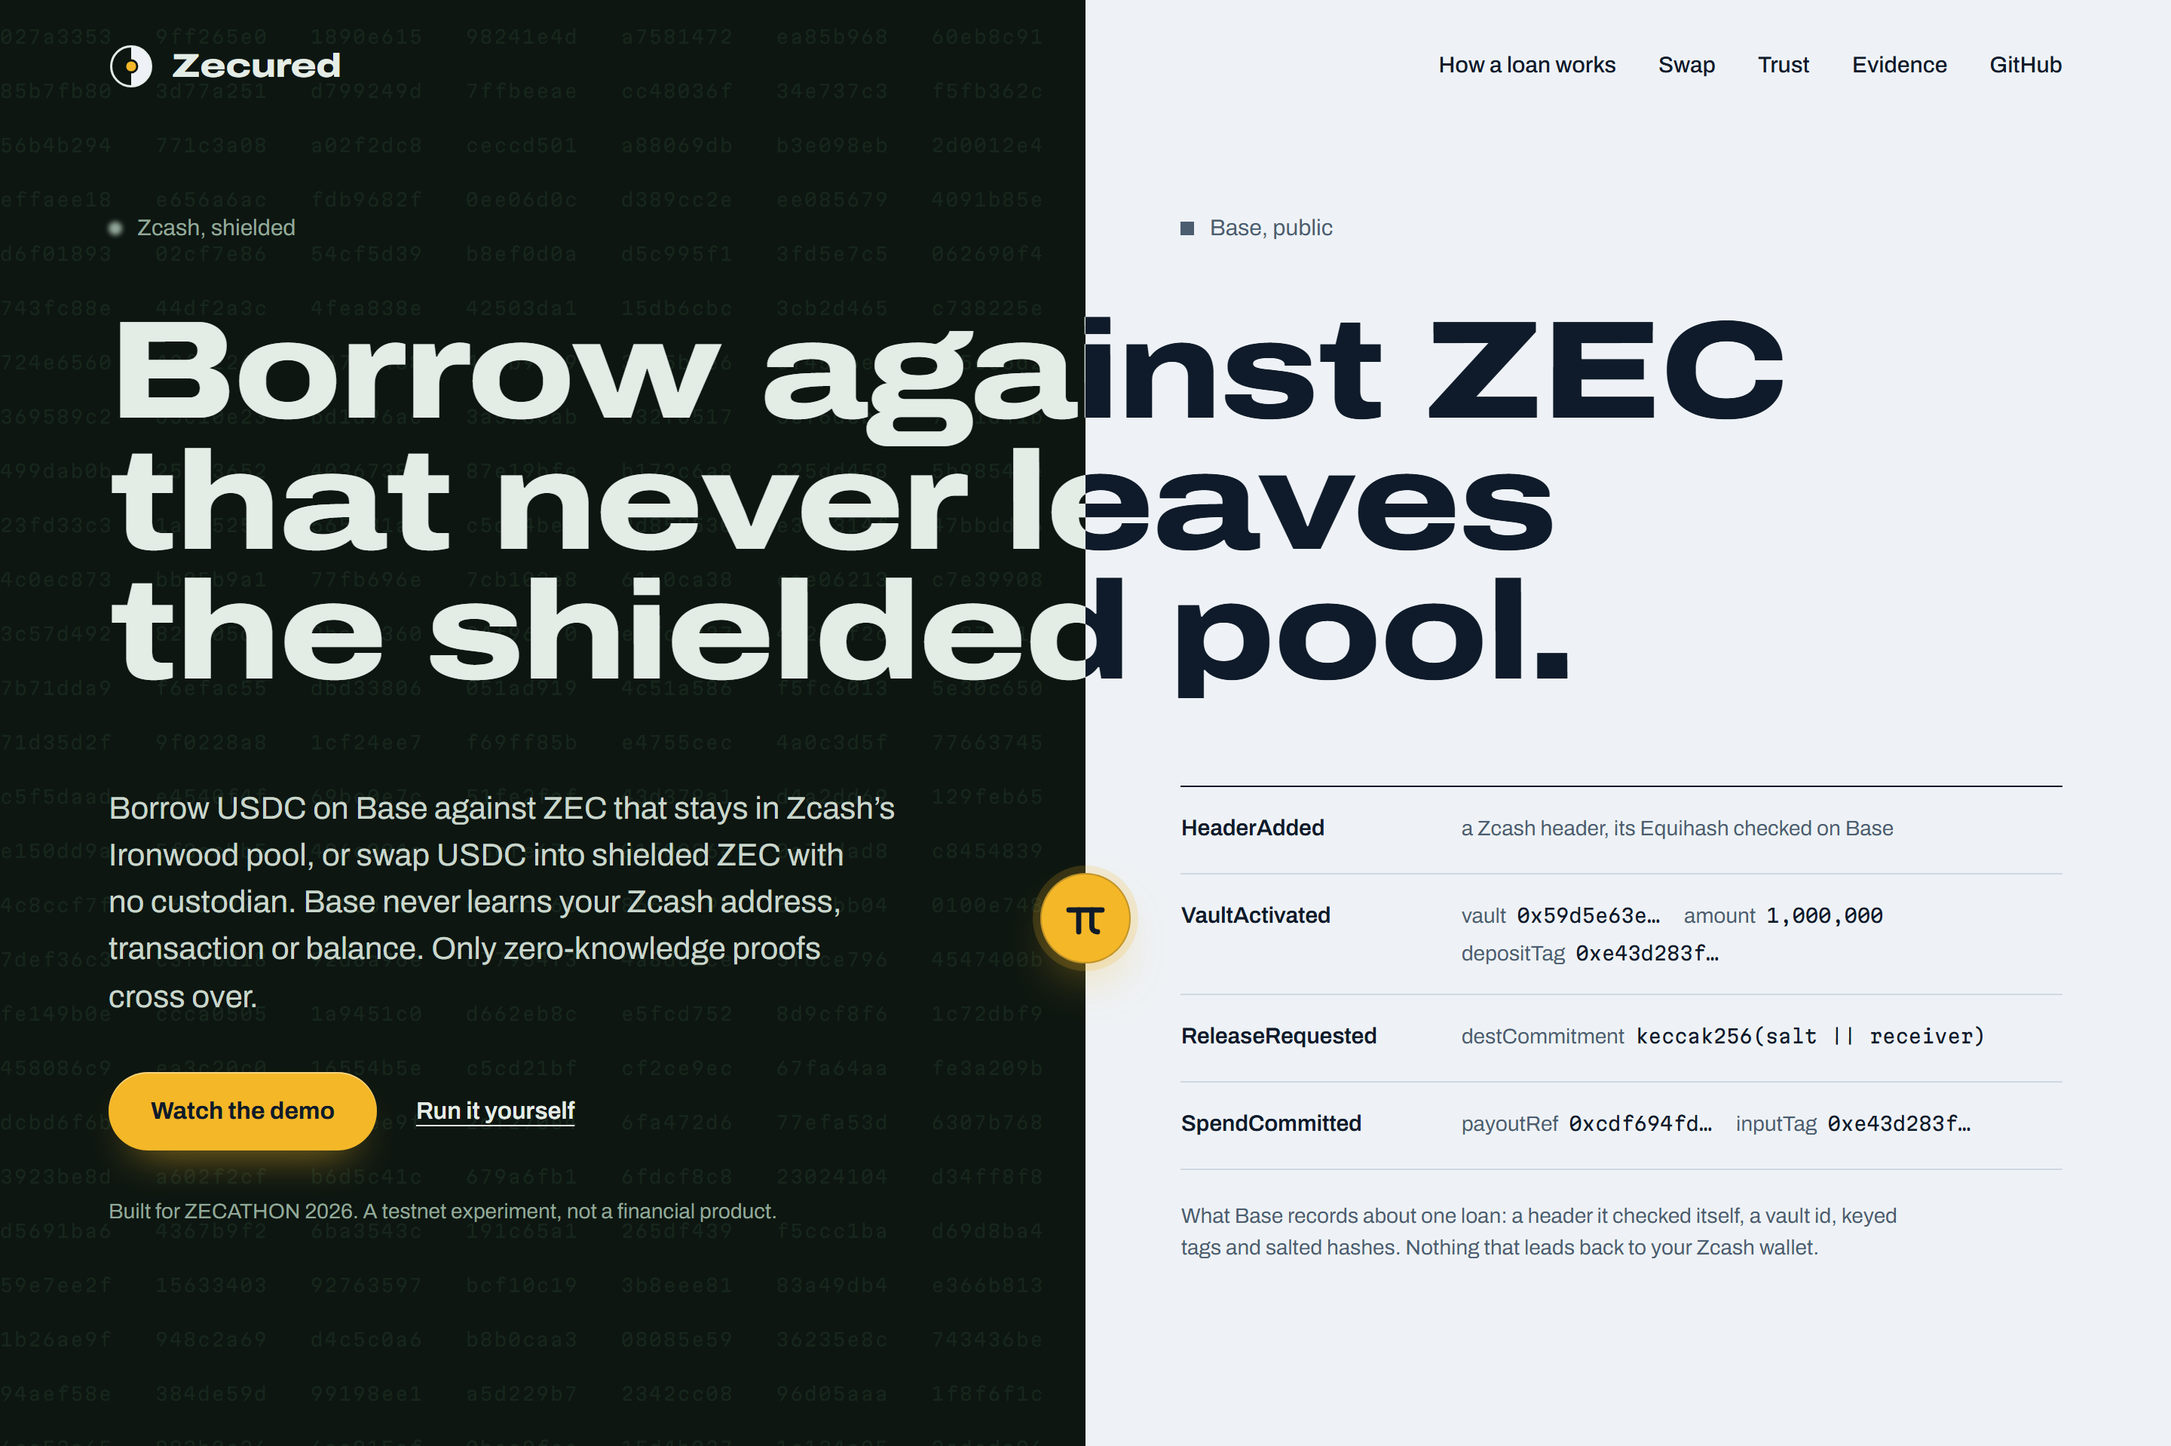
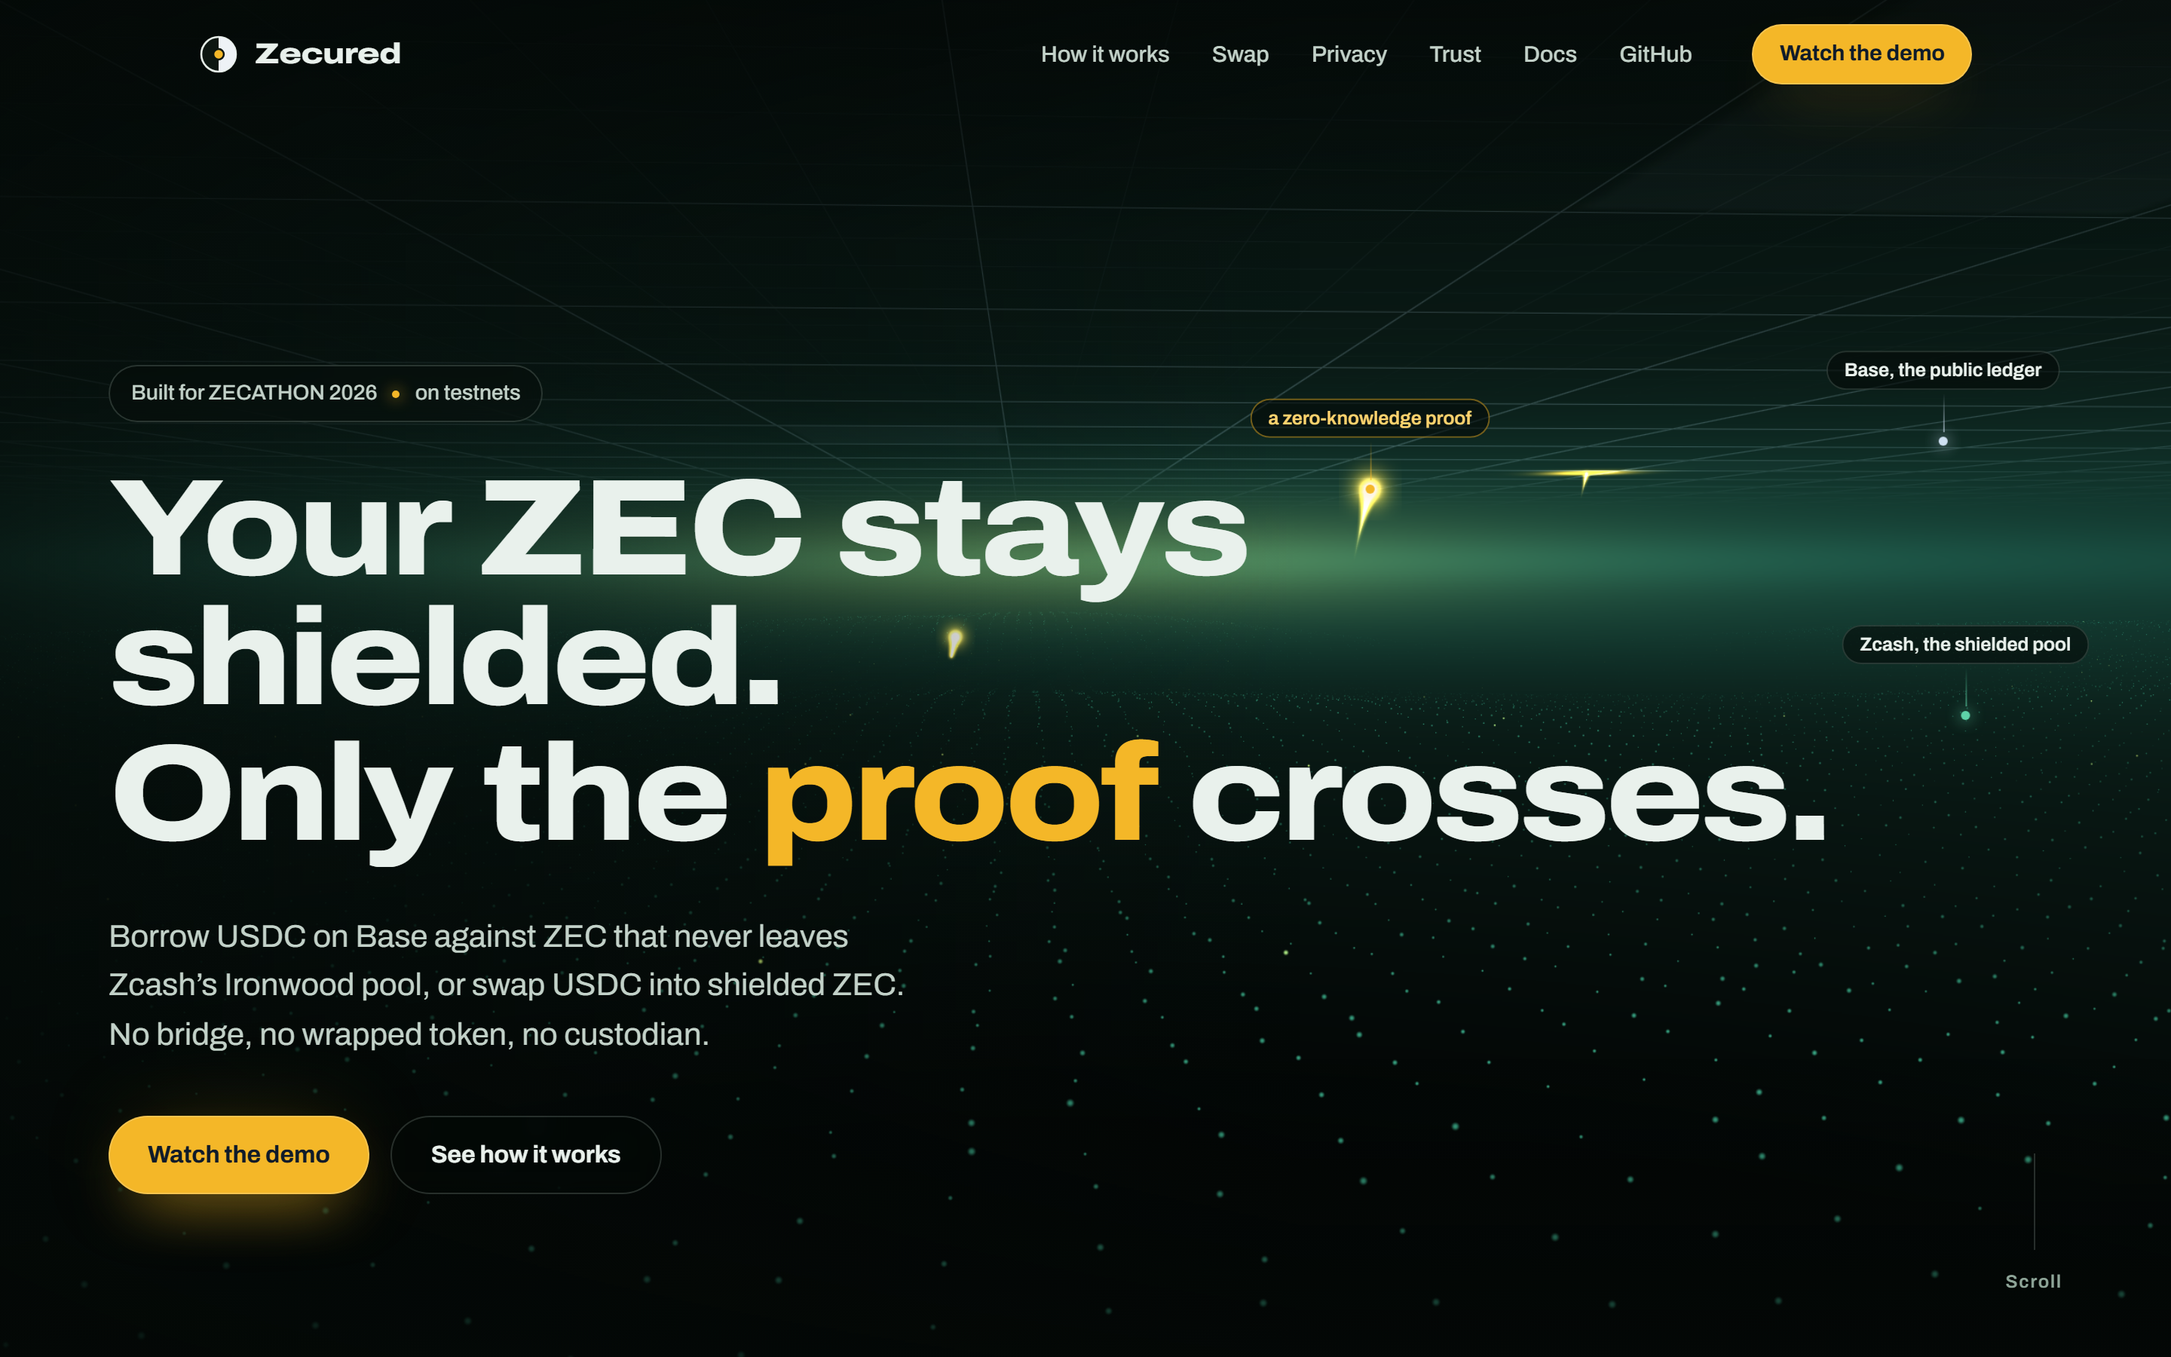
docs: the site's guide for the new design, and the README's images from it
docs/SITE.md: the two pages, the scene and how it is built and loaded, the design, the source of every
number, the placeholders, the tests and the images. The README's hero, the loan's GIF and the theft
timeline come from the new pages; its layout row describes them.

diff --git a/docs/SITE.md b/docs/SITE.md
@@ -1,13 +1,22 @@
-# The showcase page
+# The site
 
-`site/` is Zecured's showcase page: `index.html`, `styles.css`, `main.js`, `fonts/`, `favicon.svg` and `og.png`.
-It has no build step and loads nothing from anyone else: no analytics, no third-party fonts, scripts, images or
-embeds. Its Content-Security-Policy (a meta tag, since GitHub Pages sets no headers) allows only the page's own
-origin: `default-src 'none'; style-src 'self'; script-src 'self'; font-src 'self'; img-src 'self'; media-src 'self';
+`site/` is Zecured's public site, two static pages with no server behind them:
+
+- **The landing page** (`index.html`): a short story told by a 3D scene. Zcash’s shielded pool is a dark field of
+  notes below, Base is a ledger of light above, and gold proofs are the only thing that crosses between them. As
+  the reader scrolls, the camera follows one loan (deposit, prove, borrow, close), the swap, what a bridge would
+  leak, and the theft demonstration. The text stays short: a line and a sentence a chapter.
+- **The docs page** (`docs/index.html`): the details. One loan step by step on both chains (with the borrower’s
+  viewing key), what Base sees next to a typical bridge, the swap, who you have to trust and the theft timeline,
+  the evidence, the way to mainnet, and how to run it all.
+
+The first design of the site, a single long page, is kept on the branch `site-v1`.
+
+The site is not a deployment of the system (DECISIONS D82): it holds no keys, calls no backend and reads no chain.
+It loads nothing from anyone else: no analytics, no third-party fonts, scripts, images or embeds. Its
+Content-Security-Policy (a meta tag, since GitHub Pages sets no headers) allows only its own origin:
+`default-src 'none'; style-src 'self'; script-src 'self'; font-src 'self'; img-src 'self'; media-src 'self';
 base-uri 'none'; form-action 'none'`, so no inline style or script either.
-
-The page is not a deployment of the system (DECISIONS D82): it holds no keys, calls no backend and reads no chain.
-It can be opened at any time, without anything else running.
 
 ## Look at it
 
@@ -15,50 +24,43 @@ It can be opened at any time, without anything else running.
 python3 -m http.server 8090 --directory site
 ```
 
-then open http://localhost:8090. Without JavaScript the page is complete: the five steps of "Follow one loan" and
-both comparisons show one after the other, and the controls that need the script are not offered.
+then open http://localhost:8090 and http://localhost:8090/docs/.
+
+## The scene
+
+The scene is written with [three.js](https://threejs.org) 0.186.1 (MIT) in `site/dev/scene/` (`index.js`, the
+chapters and the animation; `shaders.js`, its GLSL). esbuild bundles it with the parts of three.js it uses into one
+minified module, `site/scene.js` (`pnpm build` in `site/dev`); a test checks that the committed file is what the
+source builds to.
+
+- `main.js` loads `scene.js` once the page is up, and only where WebGL 2 is available and the reader has not asked
+  for reduced motion. Otherwise, and until the scene draws its first frame, the page shows `img/still.jpg`, one
+  frame of the scene.
+- Each section of the page names its chapter (`data-scene`). The scene eases the camera and the story toward the
+  chapter in the middle of the screen, and blends into the next one as its section ends. On a tall screen the
+  chapters have cameras of their own, so the story sits above the text.
+- The small tags on the scene (`.tags [data-tag]`, in the page’s HTML) follow the things they name: the scene
+  places them each frame and fades them with its story. They are decorative (`aria-hidden`); the text says the same.
+- It keeps its frame rate by lowering the pixel ratio while frames run slow, and stops while the tab is hidden.
 
 ## The design
 
-The page is the seam between two chains.
-
-- **The seam.** Zcash is on the left: dark, soft corners, encrypted values blurred, no rules. Base is on the right:
-  light, sharp corners, ruled ledger rows. On a desktop the seam is vertical; at 760 px and below it is horizontal.
-- **Gold** `#F4B728` marks only the π seal (a proof crossing) and the primary button.
-- **Red** marks only what leaks: text `#9A1F15` on `#FBE1DC`, underline `#B42318`.
-- **Martian Mono** is only for chain data: hashes, heights, amounts, commands. Never for labels.
-- **Not used:** uppercase labels, meta text joined with " · ", link texts ending in "→", grids of identical
-  shadowed cards.
-- **Motion.** The hero has one moment on load: the seal leaves the pool, crosses the seam, the stamp ring opens and
-  the ledger rows appear. Everything else moves only in answer to the reader (the steps, the viewing key, the
-  comparison). `prefers-reduced-motion` stops all of it.
-
-| Token | Value | Use |
-|---|---|---|
-| iron | `#0D1611` | Zcash's ground |
-| iron-2 | `#142019` | a soft surface on the dark |
-| iron-line | `#24352B` | a thin division on the dark |
-| iron-edge | `#3E5146` | a button's edge on the dark |
-| pool-text | `#E4ECE6` | text on the dark (15.3:1) |
-| pool-soft | `#C9D6CC` | body text on the dark (12.3:1) |
-| pool-muted | `#93A89A` | secondary text on the dark (7.3:1) |
-| ledger | `#EEF2F6` | Base's ground |
-| ledger-line | `#CFD8E2` | a ledger row's rule |
-| ink | `#0F1B2A` | text on the light (15.4:1) |
-| ink-soft | `#33455A` | body text on the light |
-| ink-muted | `#4C5D70` | secondary text on the light (6.0:1) |
-| seal | `#F4B728` | proofs and the primary button; its text is ink (9.6:1) |
-| bad | `#F26B5E` | a compromised signer's dot (6.2:1 on the dark) |
-
-Archivo (variable: width 62 to 125 %, weight 100 to 900) sets the text: body 17/1.55 (16 at 760 px and below),
-lead 18 to 21 px, h3 24 px at 118 % width, h2 `clamp(34px, 4vw, 58px)` at 125 % and weight 800, h1
-`clamp(40px, 6.4vw, 100px)` at 125 %, weight 800, line height 0.94. Martian Mono sets chain data at 12.5 to 13 px.
+- **Ground:** near black with a hint of green (`#040907`), the pool’s teal (`#38a684`), the ledger’s ice
+  (`#cfe0f2`, `#eef2f6` for light panels).
+- **Gold** (`#f4b728`) marks proofs and the primary button.
+- **Red** (`#ff5a4e`, and `#9a1f15` on `#fbe1dc` for a leak in text) marks only what leaks or is compromised.
+- **Archivo** (variable: width 62 to 125 %, weight 100 to 900) sets the text, headlines wide and heavy. **Martian
+  Mono** is for chain data only: hashes, heights, amounts, commands.
+- **Motion:** the scene and the reveals of the landing page answer the scroll. `prefers-reduced-motion` stops all
+  of it: no scene, no transitions, the still image.
+- **Panels in the docs:** where a step happens on both chains, the shielded pool is a dark rounded panel with
+  encrypted values blurred, and Base a light, square, ruled one.
 
 ## Its content
 
-Every number on the page comes from a recorded run, and each has its source:
+Every number on the site comes from a recorded run, and each has its source:
 
-| On the page | Source |
+| On the site | Source |
 |---|---|
 | 804 contract tests, 6 skipped | TESTING § 1 |
 | 4 invariant campaigns, 35 invariants, 12,800 calls each, no reverts | TESTING § 1, INVARIANTS |
@@ -69,59 +71,62 @@ Every number on the page comes from a recorded run, and each has its source:
 | GPU: a deposit in 28.1 s, an F1 in 36.9 s | TESTING § 2, 2026-10-21 |
 | Leak scan: 302 identifiers, 77 events, 55 calldata, 177 storage words, 0 matches | TESTING § 2, v4.1 |
 | The browser run: 2 min 50 s, 4 min 25 s, 7 min 56 s; 729,131 gas | TESTING § 2 |
-| Close from collateral: block 4,488,453; 337,500 and 252,500 zat | TESTING § 2, the app's run |
+| Close from collateral: block 4,488,453; 337,500 and 252,500 zat | TESTING § 2, the app’s run |
 | The swap: order `0x21660b10` and its times | TESTING § 2, v4 |
 | The theft demonstration: `43ea5e91`, block 4,523,730; 64 s; 00:04:40, 00:06:47, 00:16:53; 3 → 12.65 USDC | TESTING § 2 |
 | Vault `0x59d5e63e`, tag `0xe43d283f`, payoutRef `0xcdf694fd`, blocks 4,490,621 and 4,490,655 | TESTING § 2, 2026-10-12 |
-| The mainnet parameters and NU7's date | MAINNET § 1, 2 and 5 |
+| The mainnet parameters and NU7’s date | MAINNET § 1, 2 and 5 |
 
-When a run changes a number, change it on the page too. The page's "Real" and "Mock, or run by us" lists say what
-the README's "What is real and what is a mock" says; when one changes, so does the other.
+When a run changes a number, change it on the site too. The docs’ “Real” and “Mock, or run by us” lists say what
+the README’s “What is real and what is a mock” says; when one changes, so does the other.
 
 ## The two placeholders
 
-- **`[DEMO VIDEO]`** becomes the video, self-hosted in `site/media/`: `demo.mp4` (H.264, 1080p, CRF about 26, at
-  most 60 MB; GitHub Pages allows 100 MB a file) with `preload="none"` and a poster, `demo-poster.jpg`, and English
-  captions, `<track kind="captions" srclang="en" src="media/demo.en.vtt" default>`. Next to it, a plain link to the
-  same video on YouTube (a link, not an embed). The policy's `media-src 'self'` and `img-src 'self'` already allow
-  them.
-- **`[LIVE RUN]`** becomes the judge deployment's run: Basescan links for the Base Sepolia transactions, short
-  txids and blocks for the Zcash side. The app's evidence file (`/evidence`) takes the same run.
+- **`[DEMO VIDEO]`** (the landing page’s demo section) becomes the video, self-hosted in `site/media/`: `demo.mp4`
+  (H.264, 1080p, CRF about 26, at most 60 MB; GitHub Pages allows 100 MB a file) with `preload="none"` and a
+  poster, `demo-poster.jpg`, and English captions, `<track kind="captions" srclang="en" src="media/demo.en.vtt"
+  default>`. Next to it, a plain link to the same video on YouTube (a link, not an embed). The policy’s
+  `media-src 'self'` and `img-src 'self'` already allow them.
+- **`[LIVE RUN]`** (the docs’ evidence) becomes the judge deployment’s run: Basescan links for the Base Sepolia
+  transactions, short txids and blocks for the Zcash side. The app’s evidence file (`/evidence`) takes the same run.
 
 ## Tests
 
 ```bash
-cd site/tests
+cd site/dev
 pnpm install
 pnpm exec playwright install chromium
 pnpm test
 ```
 
-They run in CI (the `site` job). They check that every request goes to the page's own origin and nothing fails or
-breaks the policy; no accessibility violation (axe-core), also with the viewing key on, the last step and the other
-comparison shown; everything readable without the script; the steps, the viewing key and the comparison by keyboard
-(arrows, Home and End on the step rail); that the viewing key never clears the market maker's output; a link to a
-step (`#loan-step-3`) opening it; no animation under `prefers-reduced-motion`; no horizontal scroll at 390, 768,
-1024 and 1440 px; and a target for every link inside the page.
+They run in CI (the `site` job), in Chromium, on both pages. They check that every request goes to the site’s own
+origin and nothing fails or breaks the policy; no accessibility violation (axe-core), also with the viewing key
+on, the last step and the other comparison shown; every word readable without the script; that the scene draws and
+its tags follow it; that without WebGL the page keeps its still image, loads no scene and logs no error; no motion
+and no scene under `prefers-reduced-motion`; the docs’ steps, viewing key and comparison by keyboard, and that the
+viewing key never clears the market maker’s output; a link to a step (`#loan-step-3`) opening it and scrolling to
+it; no horizontal scroll at 390, 768, 1024 and 1440 px; a target for every link inside the site; and that
+`site/scene.js` is what its source builds to.
 
-`pnpm shots` writes the README's images (`docs/assets/hero.png`, `docs/assets/theft.png`), the social card
-(`site/og.png`, 1200 by 630) and the frames of `docs/assets/loan.gif`, which `scripts/site-gif.sh` assembles (needs
-ffmpeg), plus full pages at the four widths for review (`site/tests/shots/`, not committed).
-`docs/assets/seam.svg` is drawn by hand.
+`pnpm shots` writes the site’s images: `site/img/still.jpg`, the social card `site/og.png` (1200 by 630), the
+README’s `docs/assets/hero.png` and `docs/assets/theft.png`, and the frames of `docs/assets/loan.gif`, which
+`scripts/site-gif.sh` assembles (needs ffmpeg). The scene is frozen on one frame of the hero for them. It also writes
+both pages in full at the four widths for review (`site/dev/shots/`, not committed). `docs/assets/seam.svg` (also
+`site/img/seam.svg`) is drawn by hand.
 
 ## Fonts
 
-`scripts/site-fonts.py` builds `site/fonts/archivo.woff2` and `site/fonts/martian-mono.woff2` (and the app's copies,
-`app/app/fonts/`) from Google Fonts' OFL sources, `ofl/archivo/Archivo[wdth,wght].ttf` and
+`scripts/site-fonts.py` builds `site/fonts/archivo.woff2` and `site/fonts/martian-mono.woff2` (and the app’s
+copies, `app/app/fonts/`) from Google Fonts’ OFL sources, `ofl/archivo/Archivo[wdth,wght].ttf` and
 `ofl/martianmono/MartianMono[wdth,wght].ttf`: variable, subset to Latin and the punctuation the pages use, without
 hinting. The licence is `site/fonts/OFL.txt`.
 
 ## Publishing
 
-`.github/workflows/pages.yml` publishes everything in `site/` except `tests/` to GitHub Pages, at
-https://himess.github.io/zecured/; the page's canonical and social-card URLs name that address. The tests' server
-(`site/tests/serve.mjs`) serves the same files, so a file the page needs and the tests find is a file Pages
-publishes. The workflow runs only by hand (`workflow_dispatch`). Pages on a private repository needs a paid plan, so the first publication waits for
-the repository to become public. Turning Pages on and running the workflow are the project owner's decision at
-the time. A custom domain (a `CNAME`) is optional, and so is serving the page as an onion service too
-(`infra/onion`).
+`.github/workflows/pages.yml` publishes everything in `site/` except its tooling, `site/dev`, to GitHub Pages, at
+https://himess.github.io/zecured/; the pages’ canonical and social-card URLs name that address. The tests’ server
+(`site/dev/serve.mjs`) serves the same files, so a file the site needs and the tests find is a file Pages
+publishes. The workflow runs only by hand (`workflow_dispatch`). Pages on a private repository needs a paid plan, so
+the first publication waits for the repository to become public. Turning Pages on and running the workflow are the
+project owner’s decision at the time. A custom domain (a `CNAME`) is optional, and so is serving the site as an
+onion service too (`infra/onion`).

diff --git a/README.md b/README.md
@@ -138,7 +138,7 @@ repository are published test vectors (such as ZIP 2005's) and anvil's well-know
 | `bots/` | Liquidator and market maker |
 | `cli/` | `zecured-wallet`: Ironwood CLI wallet and borrower actions |
 | `app/` | Next.js app (in progress) |
-| `site/` | The showcase page: static, no build step, its own fonts and no request to anyone else ([docs/SITE.md](docs/SITE.md)) |
+| `site/` | The site: a landing page told by a 3D scene (three.js) and a docs page; static, its own fonts, no request to anyone else ([docs/SITE.md](docs/SITE.md)) |
 | `docs/` | [Architecture](docs/ARCHITECTURE.md), [Interfaces](docs/INTERFACES.md), [Threat model](docs/THREAT_MODEL.md), [Decisions](docs/DECISIONS.md), [Invariants](docs/INVARIANTS.md), [Economics](docs/ECONOMICS.md), [Mainnet](docs/MAINNET.md), [Swap](docs/SWAP.md), [Testing and evidence](docs/TESTING.md), [Security review](docs/SECURITY_REVIEW.md), [Tier 2 design](docs/TIER2.md), [Tier 3 design](docs/TIER3.md), [Operators](docs/OPERATORS.md), [Jury FAQ](docs/JURY_FAQ.md), spikes |
 
 ## Running it
